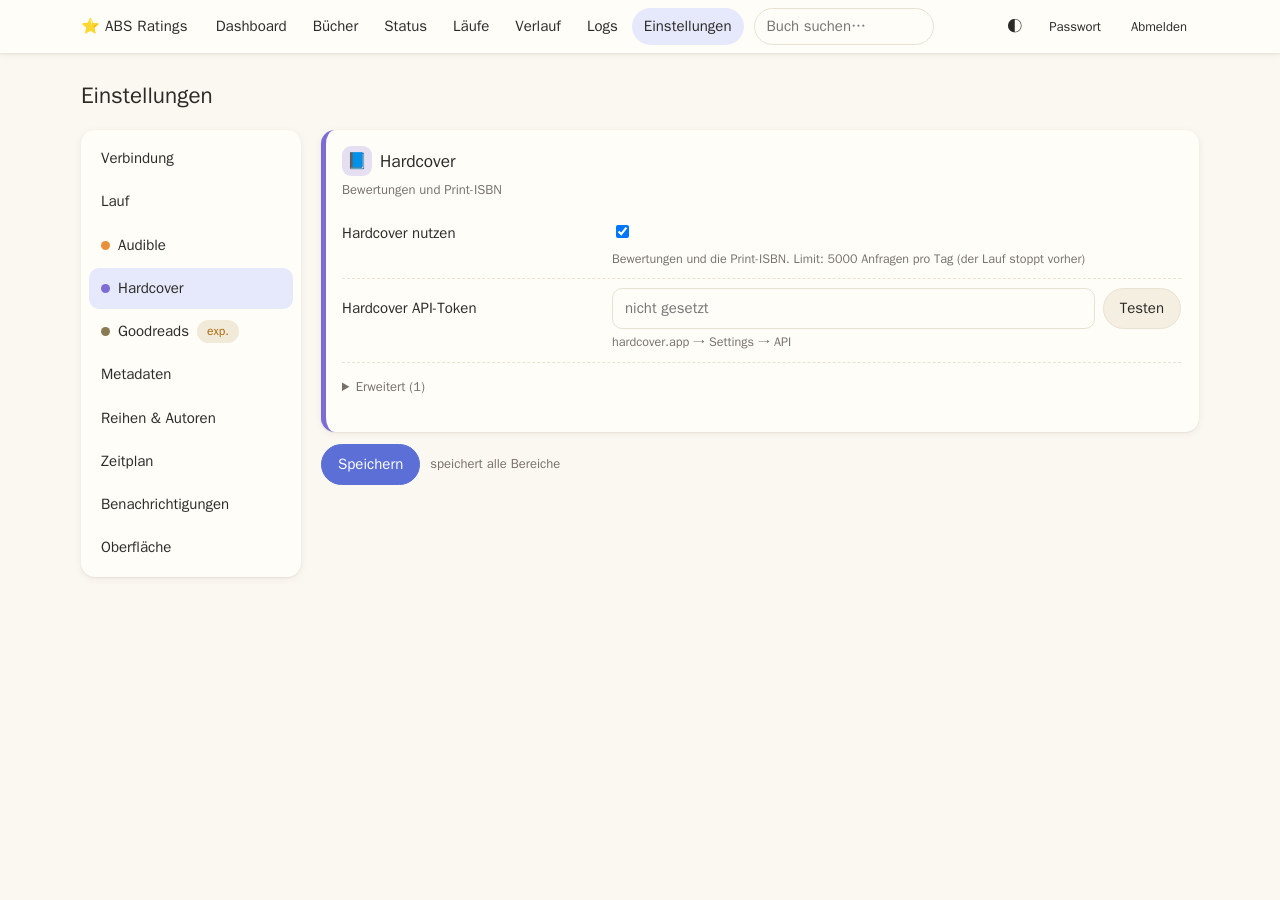
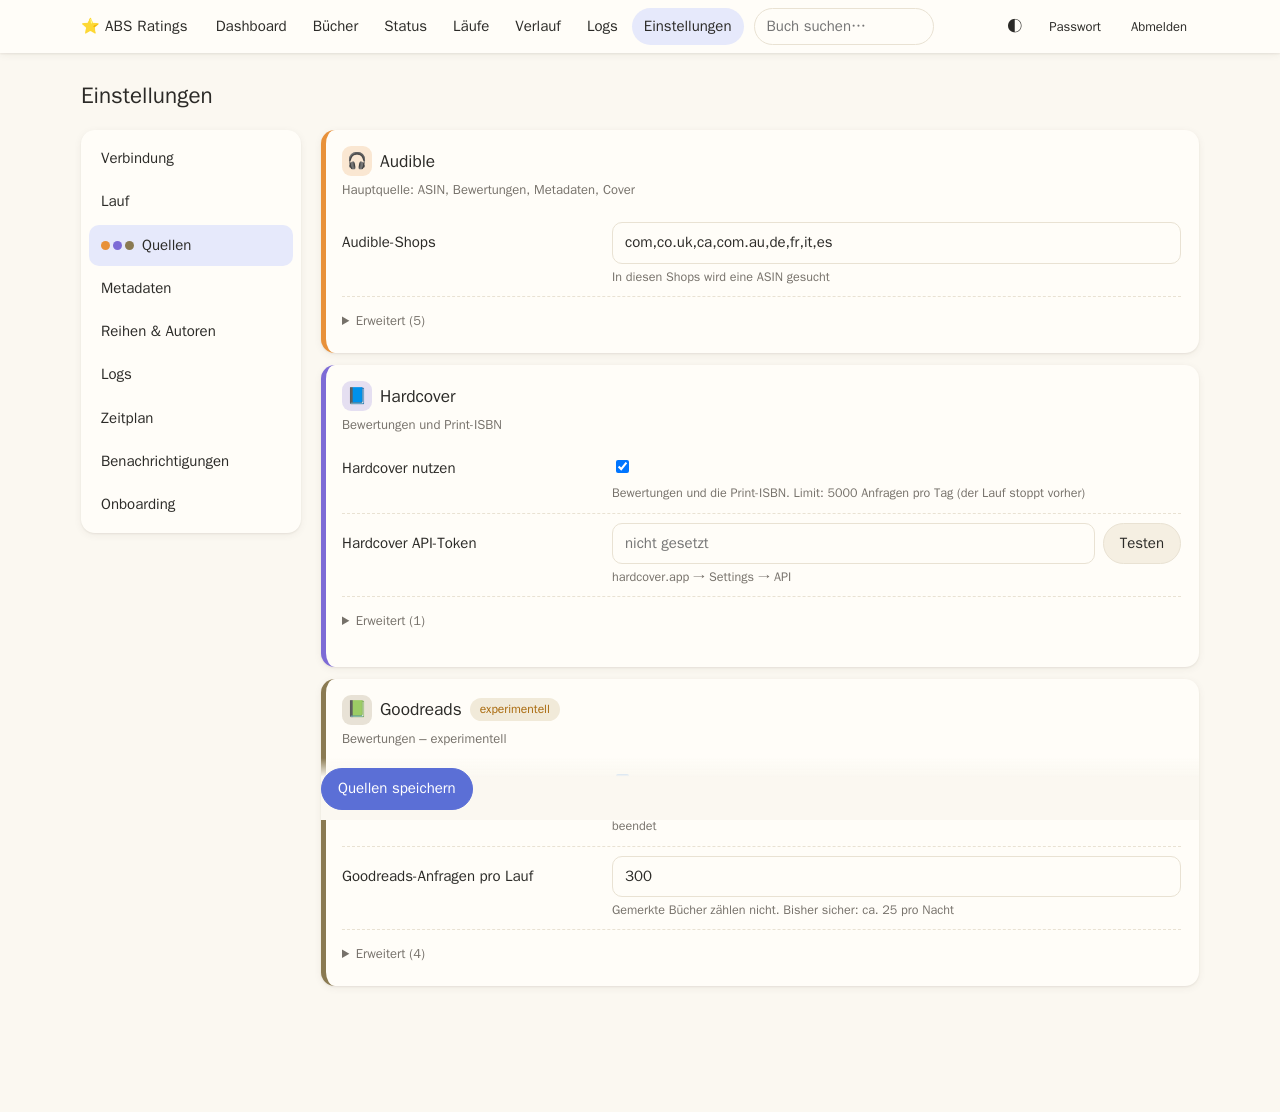
Settings: sections Verbindung/Lauf/Quellen/Metadaten/Reihen & Autoren/Logs/Zeitplan/Benachrichtigungen/Onboarding, save per section (only its fields), menu button on phones; main navigation collapses on phones

diff --git a/webui/templates/settings.html b/webui/templates/settings.html
@@ -1,5 +1,4 @@
 {% extends 'base.html' %}{% block title %}Einstellungen{% endblock %}{% block body %}
-{% macro slug(g) %}{{ g|lower|replace(' & ', '-')|replace(' ', '-') }}{% endmacro %}
 {% macro field(key, label, ftype, default, help_) %}
  {% if ftype == 'libraries' %}
  <div class="f" style="padding:8px 0;border-bottom:1px dashed var(--line)"><b>{{ label }}</b>
@@ -16,13 +15,8 @@
   {% if help_ %}<span class="h">{{ help_ }}</span>{% endif %}</label>
  {% endif %}
 {% endmacro %}
-{% set SECS = (groups.keys()|list) + ['Zeitplan', 'Benachrichtigungen', 'Oberfläche'] %}
-<h1>Einstellungen</h1>
-<div class="slayout">
-<nav class="snav" aria-label="Bereiche">{% for g in SECS %}{% set pv = providers.get(g) %}<a href="#{{ slug(g) }}" data-sec="{{ slug(g) }}"{% if pv %} style="--pc:{{ pv[1] }}"{% endif %}>{% if pv %}<span class="dot"></span>{% endif %}{{ g }}{% if g == 'Goodreads' %} <span class="badge warn">exp.</span>{% endif %}</a>{% endfor %}</nav>
-<form method="post" id="sf" class="spanel">
-{% for group, fields in groups.items() %}{% set pv = providers.get(group) %}
-<div class="card{{ ' provider' if pv }}" data-sec="{{ slug(group) }}" {% if pv %}style="--pc:{{ pv[1] }}"{% endif %}>
+{% macro group_card(group) %}{% set fields = groups.get(group, []) %}{% set pv = providers.get(group) %}
+<div class="card{{ ' provider' if pv }}" {% if pv %}style="--pc:{{ pv[1] }}"{% endif %}>
  <h2 style="margin-top:0">{% if pv %}<span class="pv-icon">{{ pv[0] }}</span>{% endif %}{{ group }}{% if group == 'Goodreads' %} <span class="badge warn">experimentell</span>{% endif %}</h2>
  {% if pv %}<p class="muted small" style="margin-top:-6px">{{ pv[2] }}</p>{% endif %}
  {% for key, label, ftype, default, help_, g in fields if key not in adv %}{{ field(key, label, ftype, default, help_) }}{% endfor %}
@@ -30,37 +24,47 @@
  {% if more %}<details class="adv"><summary class="small muted">Erweitert ({{ more|length }})</summary>
   {% for key, label, ftype, default, help_, g in more %}{{ field(key, label, ftype, default, help_) }}{% endfor %}</details>{% endif %}
  {% if group == 'Verbindung' %}<p class="small" id="test_abs"></p>{% elif group == 'Hardcover' %}<p class="small" id="test_hardcover"></p>{% endif %}
-</div>{% endfor %}
+</div>{% endmacro %}
+{% macro save(sec) %}<p class="savebar"><input type="hidden" name="section" value="{{ sec }}"><button class="primary">{{ sec }} speichern</button></p>{% endmacro %}
 
-<div class="card" data-sec="zeitplan"><h2 style="margin-top:0">Zeitplan</h2>
+<div class="row" style="justify-content:space-between"><h1>Einstellungen</h1><button type="button" class="iconbtn snav-toggle" aria-label="Bereiche" onclick="document.querySelector('.snav').classList.toggle('open')">☰ Bereiche</button></div>
+<div class="slayout">
+<nav class="snav" aria-label="Bereiche">{% for sec, grps in sections.items() %}<a href="#{{ slug(sec) }}" data-sec="{{ slug(sec) }}">{% if sec == 'Quellen' %}<span class="dots">{% for g in grps %}<span class="dot" style="--pc:{{ providers[g][1] }}"></span>{% endfor %}</span>{% endif %}{{ sec }}</a>{% endfor %}</nav>
+<div class="spanel">
+{% for sec, grps in sections.items() if grps %}
+<form method="post" class="sec" data-sec="{{ slug(sec) }}">{% for g in grps %}{{ group_card(g) }}{% endfor %}{{ save(sec) }}</form>
+{% endfor %}
+
+<form method="post" class="sec" data-sec="{{ slug('Zeitplan') }}"><div class="card"><h2 style="margin-top:0">Zeitplan</h2>
  <label class="f"><span>Zeitplan aktiv</span><span><input type="checkbox" name="schedule_enabled" {{ 'checked' if s.schedule_enabled }}></span></label>
  <label class="f"><span>Cron-Modus</span><span><input type="checkbox" name="schedule_mode" id="cronmode" {{ 'checked' if s.schedule_mode=='cron' }} onchange="cronToggle()"></span><span class="h">Aus = Wochentage + Uhrzeit</span></label>
  <div id="simple"><div class="f" style="padding:8px 0"><b>Wochentage</b><div class="row" style="margin-top:6px">
   {% for d in ['Mo','Di','Mi','Do','Fr','Sa','So'] %}<label class="badge"><input type="checkbox" name="schedule_days" value="{{ loop.index0 }}" {{ 'checked' if loop.index0 in s.schedule_days }}> {{ d }}</label>{% endfor %}</div></div>
   <label class="f"><span>Uhrzeit</span><input type="time" name="schedule_time" value="{{ s.schedule_time }}" style="max-width:140px"></label></div>
  <div id="cron"><label class="f"><span>Cron-Ausdruck</span><span class="row"><input type="text" name="schedule_cron" id="cronexpr" value="{{ s.schedule_cron }}" style="max-width:220px"><button type="button" onclick="test('cron')">Prüfen</button></span><span class="h">Minute Stunde Tag Monat Wochentag, z.B. <code>30 2 * * *</code> = täglich 02:30</span></label><p class="small" id="test_cron"></p></div>
- <p class="muted small">Nächster Lauf: {{ next_run|dt if next_run else '–' }} (nach dem Speichern aktualisiert). Geplante Läufe verwenden die Einstellung „Testlauf“ unter Lauf.</p>
-</div>
+ <p class="muted small">Nächster Lauf: {{ next_run|dt if next_run else '–' }}. Geplante Läufe verwenden die Einstellung „Testlauf“ unter Lauf.</p>
+</div>{{ save('Zeitplan') }}</form>
 
-<div class="card" data-sec="benachrichtigungen"><h2 style="margin-top:0">Benachrichtigungen</h2>
+<form method="post" class="sec" data-sec="{{ slug('Benachrichtigungen') }}"><div class="card"><h2 style="margin-top:0">Benachrichtigungen</h2>
  <label class="f"><span>Apprise-URL</span><span class="row"><input type="text" name="apprise_url" id="apprise_url" value="{{ s.apprise_url }}" placeholder="z.B. ntfy://ntfy.sh/mein-topic oder discord://webhook_id/token" style="flex:1"><button type="button" onclick="test('notify')">Testen</button></span>
  <span class="h">Leer = aus. Unterstützt ntfy, Discord, Telegram, Gotify, E-Mail u.v.m. (<a href="https://github.com/caronc/apprise/wiki" target="_blank">Formate</a>)</span></label>
  <label class="f"><span>Benachrichtigen bei</span><select name="notify_on"><option value="errors" {{ 'selected' if s.notify_on=='errors' }}>nur Fehlern</option><option value="always" {{ 'selected' if s.notify_on=='always' }}>jedem Lauf</option></select></label>
  <p class="small" id="test_notify"></p>
-</div>
-<div class="card" data-sec="oberfläche"><h2 style="margin-top:0">Oberfläche</h2>
- <div class="row"><button type="button" onclick="window.ABSTour && ABSTour.start()">Einführungstour neu starten</button>
+</div>{{ save('Benachrichtigungen') }}</form>
+
+<div class="sec" data-sec="{{ slug('Onboarding') }}"><div class="card"><h2 style="margin-top:0">Onboarding</h2>
+ <p class="small">Der Rundgang erklärt in wenigen Schritten die Seiten der App. Er startet beim ersten Besuch automatisch.</p>
+ <div class="row"><button type="button" class="primary" onclick="window.ABSTour && ABSTour.start()">Einführungstour starten</button>
  <span class="muted small">Design (hell / dunkel / automatisch) wechselst du oben rechts mit ◐.</span></div>
-</div>
-<p class="savebar"><button class="primary">Speichern</button> <span class="muted small">speichert alle Bereiche</span></p></form>
-</div>
+</div></div>
+</div></div>
 <script>
 (function(){
- const cards=[...document.querySelectorAll('.spanel > .card[data-sec]')], links=[...document.querySelectorAll('.snav a')];
- function show(id){ if(!cards.some(c=>c.dataset.sec===id)) id=cards[0].dataset.sec;
-  cards.forEach(c=>c.classList.toggle('on', c.dataset.sec===id)); links.forEach(a=>a.classList.toggle('active', a.dataset.sec===id));
+ const secs=[...document.querySelectorAll('.spanel > .sec')], links=[...document.querySelectorAll('.snav a')], nav=document.querySelector('.snav');
+ function show(id){ if(!secs.some(c=>c.dataset.sec===id)) id=secs[0].dataset.sec;
+  secs.forEach(c=>c.classList.toggle('on', c.dataset.sec===id)); links.forEach(a=>a.classList.toggle('active', a.dataset.sec===id));
   try{ localStorage.setItem('abs_settings_sec', id); }catch(e){} }
- links.forEach(a=>a.addEventListener('click', e=>{ e.preventDefault(); history.replaceState(null, '', '#'+a.dataset.sec); show(a.dataset.sec); }));
+ links.forEach(a=>a.addEventListener('click', e=>{ e.preventDefault(); history.replaceState(null, '', '#'+a.dataset.sec); show(a.dataset.sec); nav.classList.remove('open'); }));
  let start=decodeURIComponent(location.hash.slice(1)); if(!start){ try{ start=localStorage.getItem('abs_settings_sec')||''; }catch(e){} }
  show(start);
 })();

diff --git a/webui/static/app.css b/webui/static/app.css
@@ -78,6 +78,19 @@ details.adv{margin-top:8px}details.adv summary{padding:6px 0}details.adv[open] s
 .snav a{display:flex;align-items:center;gap:8px;padding:9px 12px;border-radius:10px;color:var(--fg);font-weight:500}
 .snav a:hover{background:var(--chip);text-decoration:none}.snav a.active{background:var(--accent-soft)}
 .snav .dot{width:9px;height:9px;border-radius:50%;background:var(--pc);flex:none}
-.spanel>.card{display:none;margin-bottom:12px}.spanel>.card.on{display:block}
-.savebar{position:sticky;bottom:12px;z-index:3;display:flex;align-items:center;gap:10px;margin:0}
-@media (max-width:800px){.slayout{grid-template-columns:1fr}.snav{position:static;flex-direction:row;overflow-x:auto;white-space:nowrap}.snav a{flex:none}}
+.spanel>.sec{display:none}.spanel>.sec.on{display:block}.spanel .card{margin-bottom:12px}
+.snav .dots{display:inline-flex;gap:3px}.snav-toggle{display:none}
+.savebar{position:sticky;bottom:0;z-index:3;display:flex;align-items:center;gap:10px;margin:0 0 12px;padding:10px 0;background:linear-gradient(to top,var(--bg) 70%,transparent)}
+@media (max-width:800px){.slayout{grid-template-columns:1fr}.snav{display:none;position:static}.snav.open{display:flex}.snav-toggle{display:inline-block;border:1px solid var(--line)}}
+/* main navigation: one line with a menu button on phones */
+.navtoggle{display:none}
+@media (max-width:800px){
+ .nav{flex-wrap:nowrap;justify-content:space-between}
+ .nav .links{display:none;position:absolute;top:100%;left:0;right:0;background:var(--card);box-shadow:var(--shadow2);flex-direction:column;align-items:stretch;padding:8px 12px 12px;gap:2px}
+ .nav.open .links{display:flex}.nav .links input[type=search]{width:100%!important;margin:6px 0}
+ .navtoggle{display:inline-block}
+ .nav .right{margin-left:0}
+}
+@media (min-width:801px){.nav .links{display:flex;align-items:center;gap:2px;flex:1;flex-wrap:wrap}}
+header{position:sticky}.nav{position:relative}
+.nav .brand{white-space:nowrap}

diff --git a/webui/templates/base.html b/webui/templates/base.html
@@ -1,8 +1,9 @@
 <!doctype html><html lang="de"><head><meta charset="utf-8"><meta name="viewport" content="width=device-width, initial-scale=1">
 <title>{% block title %}ABS Ratings{% endblock %}</title><link rel="stylesheet" href="{{ url_for('static', filename='app.css') }}">
 <script src="{{ url_for('static', filename='app.js') }}"></script></head><body>
-{% if session.auth %}<header><div class="nav"><span class="brand">⭐ ABS Ratings</span>
+{% if session.auth %}<header><div class="nav"><span class="brand">⭐ ABS Ratings</span><button type="button" class="iconbtn navtoggle" aria-label="Menü" onclick="this.closest('.nav').classList.toggle('open')">☰</button>
 {% set ep = request.endpoint %}
+<div class="links">
 <a data-tour="dashboard" href="{{ url_for('dashboard') }}" class="{{ 'active' if ep in ('dashboard','problem') }}">Dashboard</a>
 <a data-tour="books" href="{{ url_for('books') }}" class="{{ 'active' if ep=='books' }}">Bücher</a>
 <a data-tour="status" href="{{ url_for('status') }}" class="{{ 'active' if ep=='status' }}">Status</a>
@@ -11,6 +12,7 @@
 <a href="{{ url_for('logs') }}" class="{{ 'active' if ep in ('logs','log_view') }}">Logs</a>
 <a data-tour="settings" href="{{ url_for('settings') }}" class="{{ 'active' if ep=='settings' }}">Einstellungen</a>
 <form action="{{ url_for('books') }}" method="get" style="margin:0 8px"><input type="search" name="q" placeholder="Buch suchen…" style="width:180px;padding:6px 12px;border-radius:99px"></form>
+</div>
 <span class="right">{% if running %}<a href="{{ url_for('run_view', run_id=current_run.id) }}"><span class="badge running">● läuft: {{ current_run.label }}</span></a>{% elif next_run %}nächster Lauf: {{ next_run|dt }}{% endif %}
 <button type="button" class="iconbtn" id="theme-toggle" title="Design">◐</button>
 <a href="{{ url_for('password') }}">Passwort</a><a href="{{ url_for('logout') }}">Abmelden</a></span></div></header>{% endif %}

diff --git a/webui/app.py b/webui/app.py
@@ -1,5 +1,5 @@
 """ABS Ratings web UI (Flask). Start: python -m webui.app (port 47823, data folder /config)."""
-import os, re, functools
+import json, os, re, functools
 from collections import Counter
 from datetime import datetime
 
@@ -151,9 +151,45 @@ def run_apply(run_id):
     if not run.get('dry_run') or run.get('kind') not in ('full', 'item') or not re.fullmatch(r'[\w-]+', run_id): abort(400)
     really = request.form.get('mode') == 'apply'
     args = ['--run', run_id] + (['--apply'] if really else [])
-    new_id, err = core.RUNNER.start('apply', undo_args=args, label=f"{'Testlauf übernehmen' if really else 'Testlauf prüfen'}: {run.get('label')} ({run_id})")
+    ids = request.form.getlist('sel')
+    if request.form.get('selection') == '1':  # from the review page: only the ticked changes
+        nums = sorted({int(x) for x in ids if x.isdigit()})
+        if not nums: flash('Nichts ausgewählt.', 'error'); return redirect(url_for('run_review', run_id=run_id))
+        sel_path = os.path.join(core.REPORT_DIR, f'apply_select_{run_id}.json')
+        with open(sel_path, 'w', encoding='utf-8') as f: json.dump(nums, f)
+        args += ['--select', sel_path]
+    n = f" ({len(ids)} ausgewählt)" if request.form.get('selection') == '1' else ''
+    new_id, err = core.RUNNER.start('apply', undo_args=args, label=f"{'Testlauf übernehmen' if really else 'Testlauf prüfen'}{n}: {run.get('label')} ({run_id})")
     if err: flash(err, 'error'); return redirect(url_for('run_view', run_id=run_id))
     return redirect(url_for('run_view', run_id=new_id))
+
+
+RISKY = {'asin': 'ASIN', 'title': 'Titel', 'language': 'Sprache', 'series': 'Reihe', 'authors': 'Autoren', 'isbn': 'ISBN'}
+
+
+@app.route('/run/<run_id>/review')
+@login_required
+def run_review(run_id):
+    """Review page of a dry run: planned changes grouped by field, risky ones first, checkboxes for applying a selection."""
+    run = core.RUNNER.get(run_id) or abort(404)
+    if not run.get('dry_run') or not re.fullmatch(r'[\w-]+', run_id): abort(400)
+    q, only = request.args.get('q', '').lower(), request.args.get('field', '')
+    plan = []
+    try:
+        with open(os.path.join(core.REPORT_DIR, f'planned_changes_{run_id}.jsonl'), encoding='utf-8') as f:
+            for n, l in enumerate(f):
+                if not l.strip(): continue
+                e = json.loads(l); e['n'] = n
+                # risky = can change WHICH book the entry points to or what it is called (CLAUDE.md "riskant")
+                e['risky'] = e['field'] in RISKY and not (e['field'] == 'isbn' and not e.get('old')) and not (e['field'] == 'series' and e.get('old'))
+                if (q and q not in (e.get('title') or '').lower()) or (only and e['field'] != only): continue
+                plan.append(e)
+    except OSError: abort(404)
+    groups = {}
+    for e in plan: groups.setdefault(e['field'], []).append(e)
+    order = sorted(groups, key=lambda f: (f not in RISKY, -len(groups[f])))
+    return render_template('run_review.html', run=run, groups=[(f, groups[f]) for f in order], q=q, field=only,
+                           risky=[e for e in plan if e['risky']], total=len(plan), risky_labels=RISKY)
 
 
 @app.route('/history')
@@ -351,7 +387,11 @@ def report():
 def settings():
     s = core.load_settings()
     if request.method == 'POST':
+        # one section per form: only the fields of THIS section are read (an unticked box elsewhere must not become "off")
+        sec = request.form.get('section', '')
+        groups_in = set(core.SECTIONS.get(sec, ()))
         for key, label, ftype, default, help_, group in core.FIELDS:
+            if group not in groups_in: continue
             if ftype == 'secret':
                 v = request.form.get(key, '')
                 if v.strip(): s[key] = v.strip()
@@ -363,21 +403,24 @@ def settings():
             else:
                 try: s[key] = core.coerce(ftype, request.form.get(key, default))
                 except ValueError: flash(f"{label}: ungültiger Wert", 'error')
-        s['schedule_enabled'] = request.form.get('schedule_enabled') == 'on'
-        s['schedule_mode'] = 'cron' if request.form.get('schedule_mode') == 'on' else 'simple'
-        s['schedule_days'] = [int(d) for d in request.form.getlist('schedule_days')]
-        s['schedule_time'] = request.form.get('schedule_time') or '02:30'
-        s['schedule_cron'] = (request.form.get('schedule_cron') or '').strip() or '30 2 * * *'
-        s['apprise_url'] = (request.form.get('apprise_url') or '').strip()
-        s['notify_on'] = request.form.get('notify_on', 'errors')
+        if sec == 'Zeitplan':
+            s['schedule_enabled'] = request.form.get('schedule_enabled') == 'on'
+            s['schedule_mode'] = 'cron' if request.form.get('schedule_mode') == 'on' else 'simple'
+            s['schedule_days'] = [int(d) for d in request.form.getlist('schedule_days')]
+            s['schedule_time'] = request.form.get('schedule_time') or '02:30'
+            s['schedule_cron'] = (request.form.get('schedule_cron') or '').strip() or '30 2 * * *'
+        if sec == 'Benachrichtigungen':
+            s['apprise_url'] = (request.form.get('apprise_url') or '').strip()
+            s['notify_on'] = request.form.get('notify_on', 'errors')
+        if sec not in core.SECTIONS: flash('Unbekannter Bereich.', 'error'); return redirect(url_for('settings'))
         core.save_settings(s)
-        flash('Einstellungen gespeichert.', 'ok')
-        return redirect(url_for('settings'))
+        flash(f'{sec}: gespeichert.', 'ok')
+        return redirect(url_for('settings') + '#' + core.section_slug(sec))
     libs = core.abs_libraries(s) if s.get('ABS_URL') and s.get('API_TOKEN') else []
     groups = {}
     for f in core.FIELDS: groups.setdefault(f[5], []).append(f)
-    return render_template('settings.html', s=s, groups=groups, adv=core.ADVANCED, providers=core.PROVIDERS, libs=libs, selected=set((s.get('LIBRARY_IDS') or '').split(',')),
-                           next_run=core.next_run_time(s))
+    return render_template('settings.html', s=s, groups=groups, sections=core.SECTIONS, slug=core.section_slug, adv=core.ADVANCED, providers=core.PROVIDERS,
+                           libs=libs, selected=set((s.get('LIBRARY_IDS') or '').split(',')), next_run=core.next_run_time(s))
 
 
 @app.route('/api/test/<what>', methods=['POST'])

diff --git a/webui/core.py b/webui/core.py
@@ -31,8 +31,8 @@ FIELDS = [
     ('ABS_BACKUP', 'ABS-Backup vor echten Läufen', 'bool', True, 'Legt vor jedem Lauf ohne DRY_RUN ein ABS-Backup an; schlägt es fehl, wird nichts geschrieben', 'Lauf'),
     ('SLEEP_TIMER', 'Zusätzliche Pause zwischen Büchern (s)', 'float', 0, 'Jede Quelle hat ihren eigenen Mindestabstand, 0 ist daher sicher und am schnellsten', 'Lauf'),
     ('NO_RATINGS_RECHECK_DAYS', 'Neu prüfen ohne Bewertungen (Tage)', 'int', 7, '', 'Lauf'),
-    ('LOG_LEVEL', 'Log-Level', 'choice:INFO|DEBUG', 'INFO', '', 'Lauf'),
-    ('LOG_RETENTION_DAYS', 'Logs aufbewahren (Tage)', 'int', 30, '', 'Lauf'),
+    ('LOG_LEVEL', 'Log-Level', 'choice:INFO|DEBUG', 'INFO', 'DEBUG nur zur Fehlersuche (viel größere Logs)', 'Logs'),
+    ('LOG_RETENTION_DAYS', 'Logs aufbewahren (Tage)', 'int', 30, 'Ältere Logs und Planungsdateien werden gelöscht', 'Logs'),
 
     ('AUDIBLE_MARKETPLACES', 'Audible-Shops', 'str', 'com,co.uk,ca,com.au,de,fr,it,es', 'In diesen Shops wird eine ASIN gesucht', 'Audible'),
     ('USE_AUDIBLE_API', 'Audible-API nutzen', 'bool', True, 'Aus = nur Webseiten auslesen (nicht empfohlen)', 'Audible'),
@@ -63,9 +63,13 @@ FIELDS = [
     ('SERIES_LOCK_AFTER_MERGE', 'Nach Zusammenführung lock_series setzen', 'bool', False, 'Alte Variante, nicht empfohlen', 'Reihen & Autoren'),
 ]
 # rarely changed: shown folded ("Erweitert") inside their card
-ADVANCED = {'ABS_TIMEOUT', 'SLEEP_TIMER', 'NO_RATINGS_RECHECK_DAYS', 'LOG_LEVEL', 'LOG_RETENTION_DAYS', 'USE_AUDIBLE_API', 'AUDIBLE_API_INTERVAL',
+ADVANCED = {'ABS_TIMEOUT', 'SLEEP_TIMER', 'NO_RATINGS_RECHECK_DAYS', 'USE_AUDIBLE_API', 'AUDIBLE_API_INTERVAL',
             'AUDIBLE_WEB_INTERVAL', 'RUNTIME_TOLERANCE_PCT', 'RUNTIME_TOLERANCE_MIN', 'HARDCOVER_INTERVAL', 'GOODREADS_INTERVAL', 'GR_BLOCK_COOLDOWN',
             'GR_MAX_COOLDOWNS', 'GR_MISSING_RECHECK_DAYS', 'SERIES_LOCK_AFTER_MERGE'}
+# settings sections (left list, one form + save button each) -> the field groups (cards) they contain
+SECTIONS = {'Verbindung': ['Verbindung'], 'Lauf': ['Lauf'], 'Quellen': ['Audible', 'Hardcover', 'Goodreads'], 'Metadaten': ['Metadaten'],
+            'Reihen & Autoren': ['Reihen & Autoren'], 'Logs': ['Logs'], 'Zeitplan': [], 'Benachrichtigungen': [], 'Onboarding': []}
+def section_slug(name): return re.sub(r'[^a-z0-9]+', '-', name.lower().replace('&', 'und')).strip('-')
 # cards that belong to a data source: icon + colour stripe
 PROVIDERS = {'Audible': ('🎧', '#e8913a', 'Hauptquelle: ASIN, Bewertungen, Metadaten, Cover'),
              'Hardcover': ('📘', '#7d6bd6', 'Bewertungen und Print-ISBN'),
